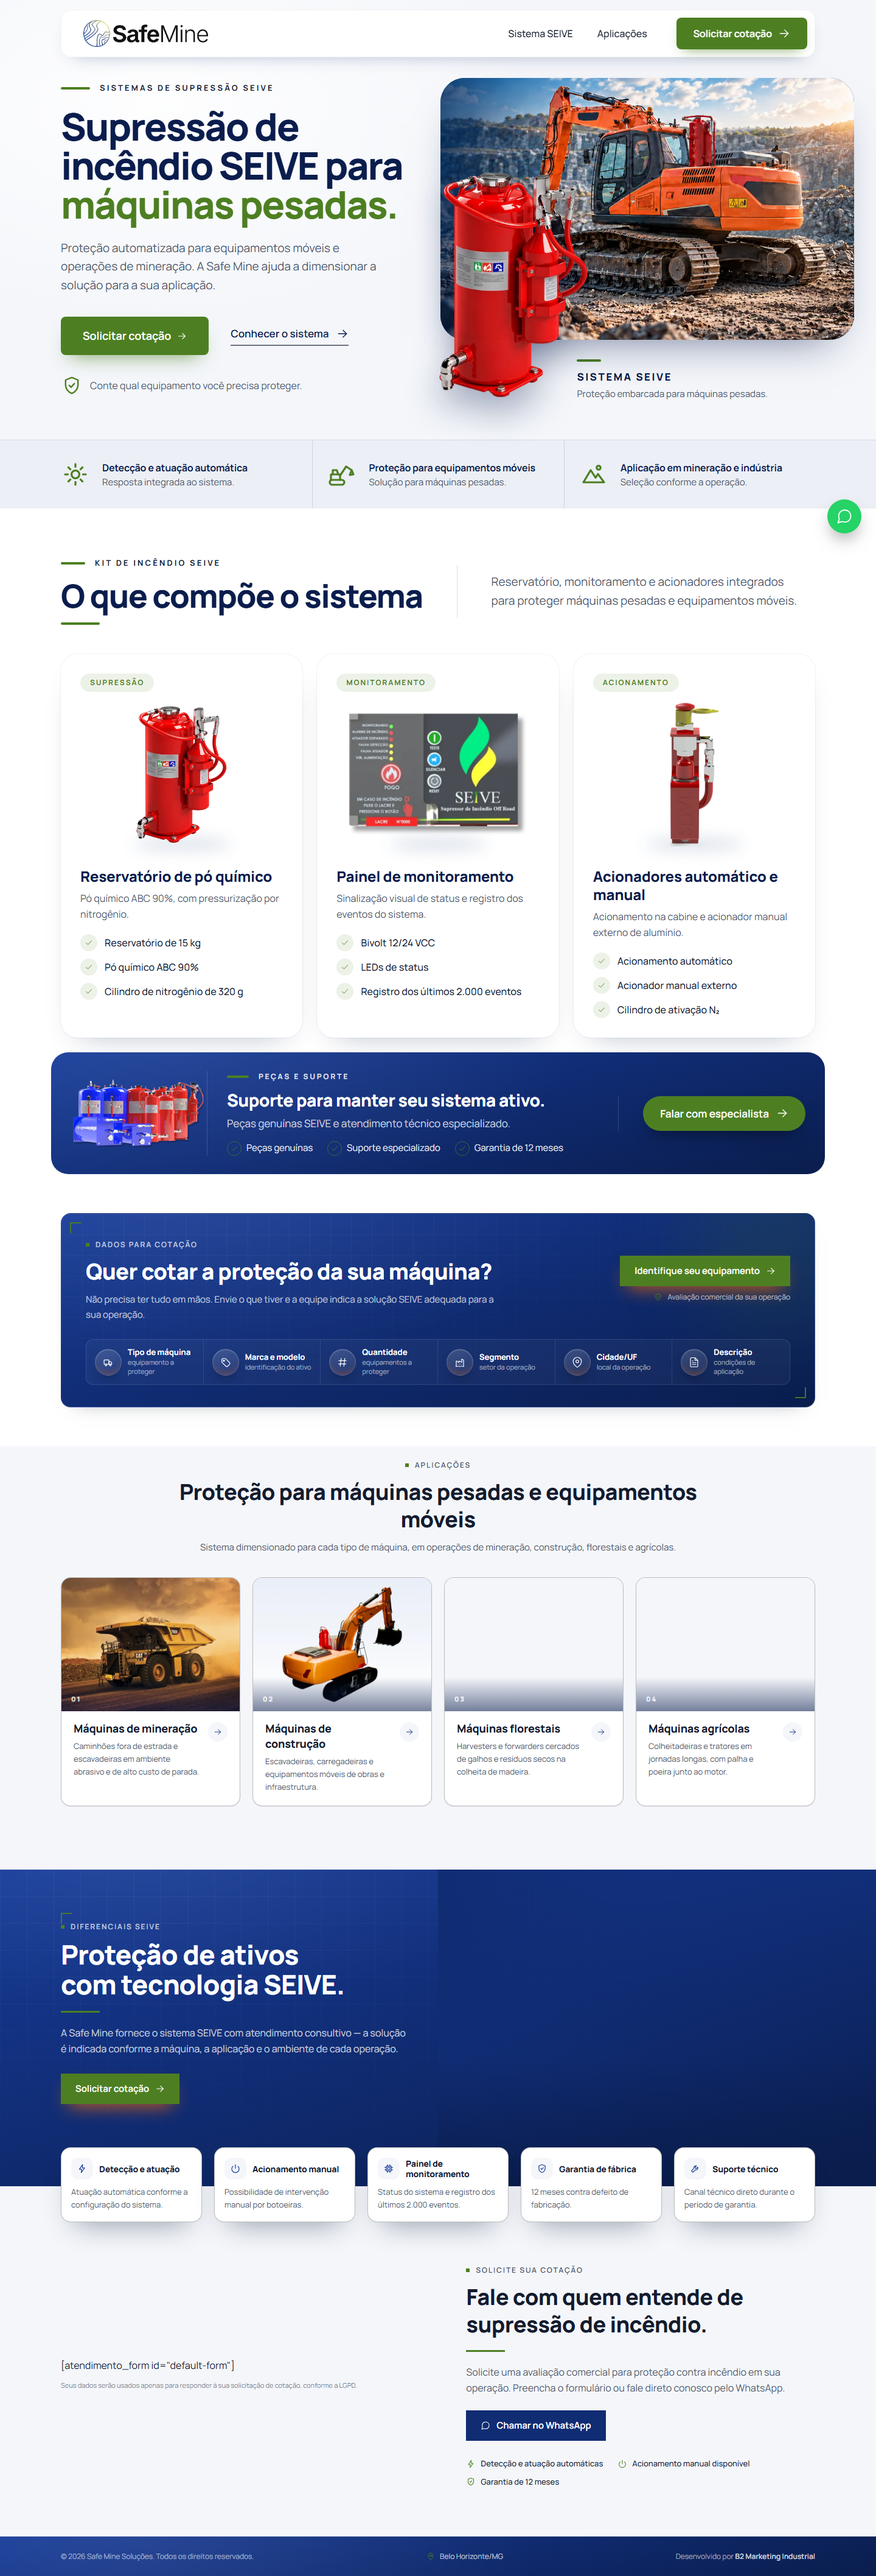
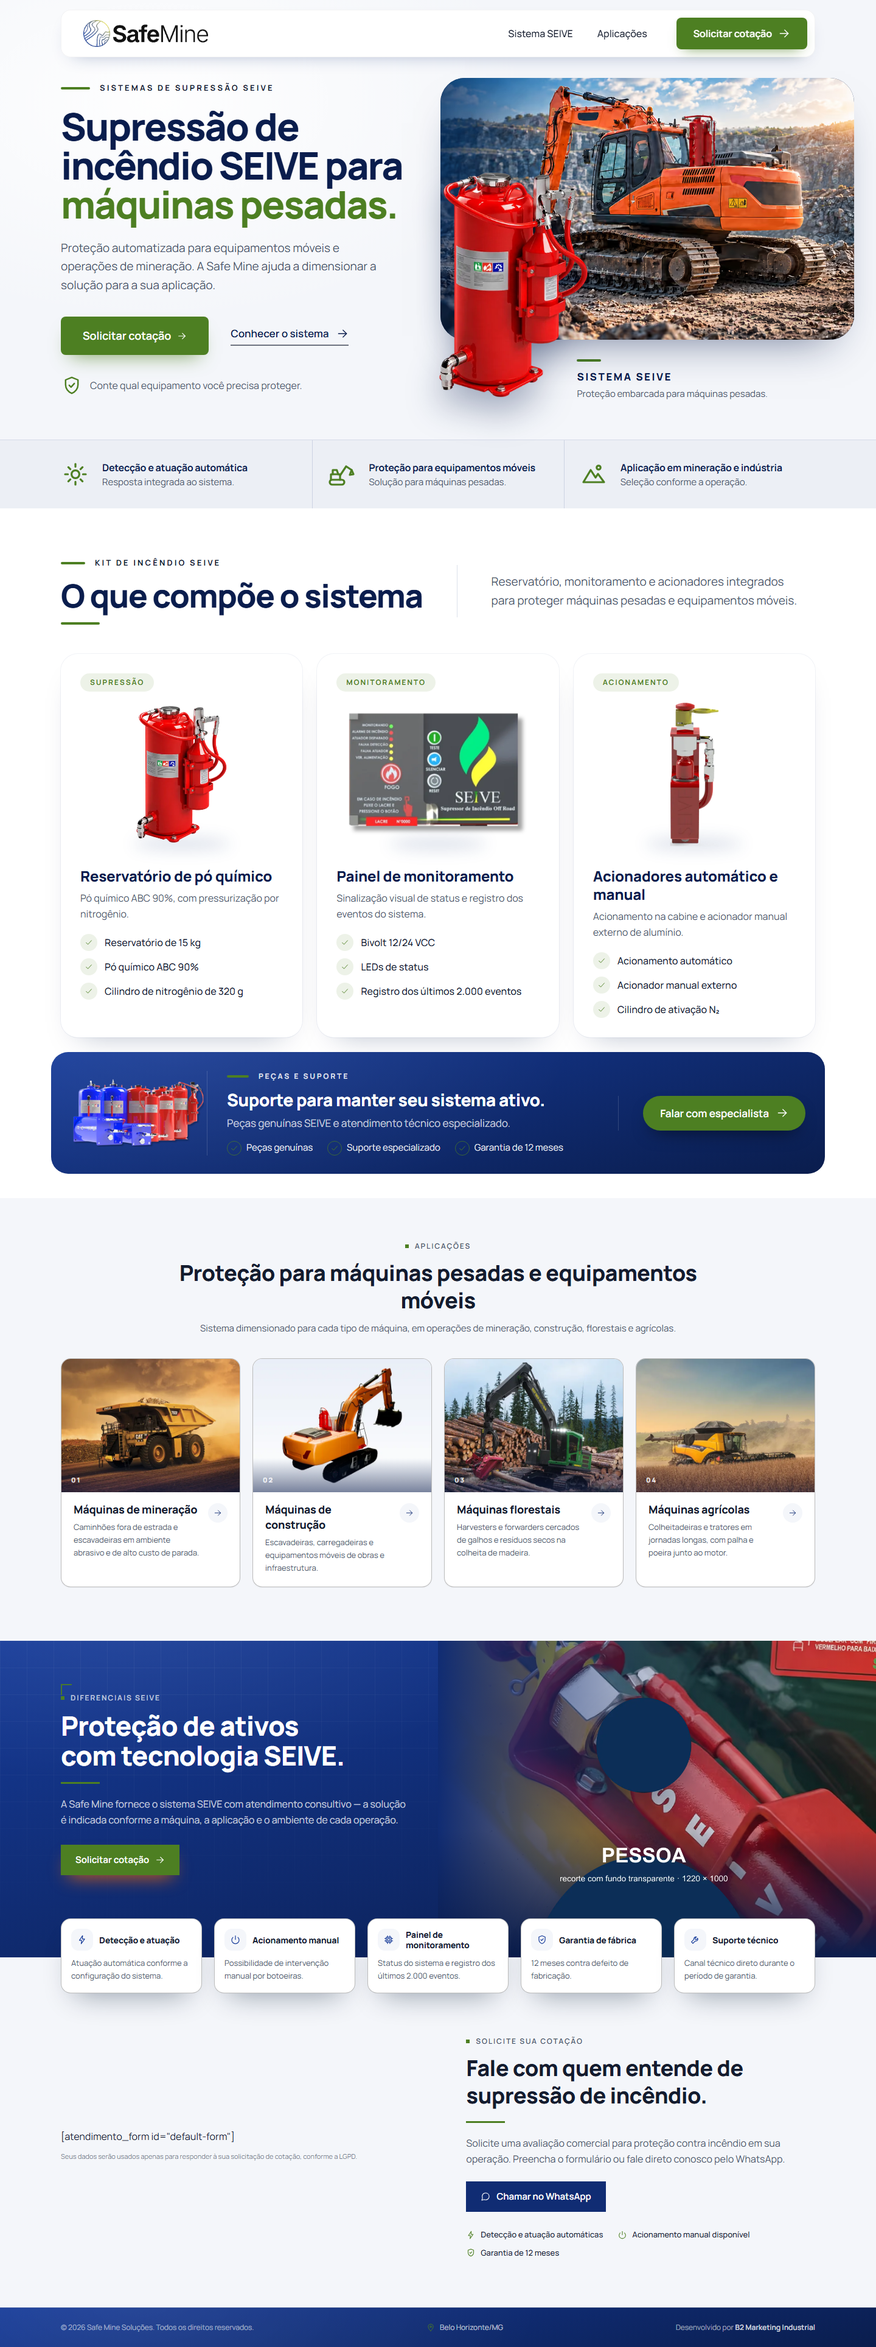
feat: remove o painel "Dados para cotação" a pedido do cliente
A seção identificar saiu da página; a composição aplicada fica
linhas · aplicacoes · diferenciais, com aplicacoes no ritmo even.
O compositor recusa essa composição (fase de apoio e bloco navy da metade
branca), então index.astro e lp.manifest.json foram ajustados à mão e o
check:lp (B2/B3) ganhou a exceção documentada para a fase de apoio vazia.
Desvio registrado no BRIEFING.md e comentado na ficha.

diff --git a/docs/BRIEFING.md b/docs/BRIEFING.md
@@ -163,6 +163,16 @@ A pedido do usuário, `src/components/sections/ProductLines.astro` (seção `lin
 - Copy de `linhas` atualizada na ficha e no arquivo de dados conforme o mockup; o contrato do manifesto continua atendido (4 itens, um escuro, 3 features cada).
 - **Atenção:** `npm run compose` sobrescreve este componente com o da biblioteca. Se a LP for recomposta, restaure-o do git depois do compose.
 
+## Desvio aprovado: painel "Dados para cotação" removido (29/10/2026)
+
+A pedido do usuário, a seção `identificar` (painel navy com os 6 dados para cotação, fase de apoio) saiu da página. A composição aplicada é `linhas · aplicacoes · diferenciais`.
+
+- O padrão exige a fase de apoio e um bloco navy em cada metade da página; o compositor recusa essa composição. Por isso `src/pages/index.astro` e `lp.manifest.json` foram ajustados à mão, e `SupportPanel.astro` e `identificar.ts` foram apagados.
+- `aplicacoes` passou do ritmo `centered-lead` para `even` (py-16), para o respiro depois da seção do kit ficar dentro da faixa do padrão.
+- `scripts/check-lp.mjs` (B2/B3) dispensa a fase de apoio quando ela está vazia e, nesse caso, aceita a metade branca sem bloco navy. Nenhuma outra regra de composição mudou.
+- A ficha mantém o bloco `identificar` (com comentário), e `npm run ficha` ainda o deriva na fase de apoio — a composição aplicada difere da derivada de propósito. **Não rode `npm run compose` sem reaplicar esta exceção.**
+- Alternativa que respeitaria o padrão: a seção "Como funciona" (`processo`, veredicto `quase`) no lugar do painel.
+
 ## Desvios técnicos da execução
 
 - `npm run screens` falha nesta pasta: o script monta o comando com `shell: true` e o caminho tem espaços. As capturas foram feitas com os mesmos parâmetros (porta 4873, Playwright 1.58.2, `?screens=1` e `?grid=1`), com caminho relativo e 5 s de espera.

diff --git a/docs/FICHA-LP.md b/docs/FICHA-LP.md
@@ -168,6 +168,8 @@ blocos:
         photo: Família de reservatórios supressores SEIVE
         dark: true
 
+  # Removido da página a pedido do cliente em 29/10/2026 (docs/BRIEFING.md). O conteúdo
+  # fica aqui para voltar sem refazer a ficha; a derivação ainda o lista na fase de apoio.
   identificar:
     veredicto: completo
     responde: [transacional]
